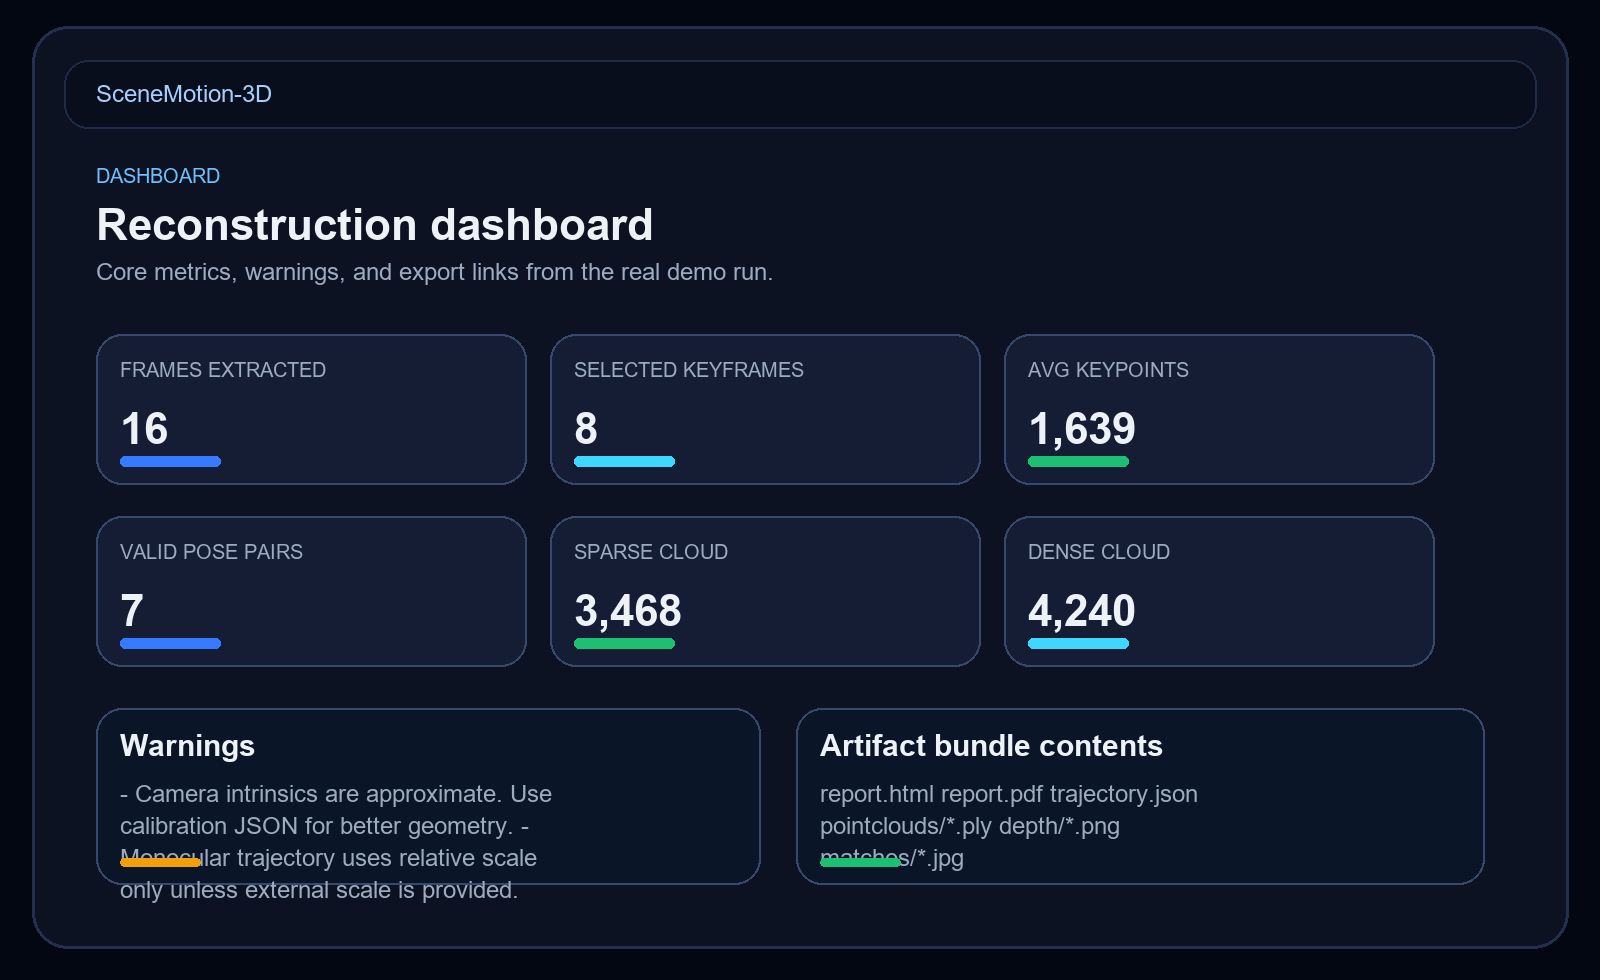
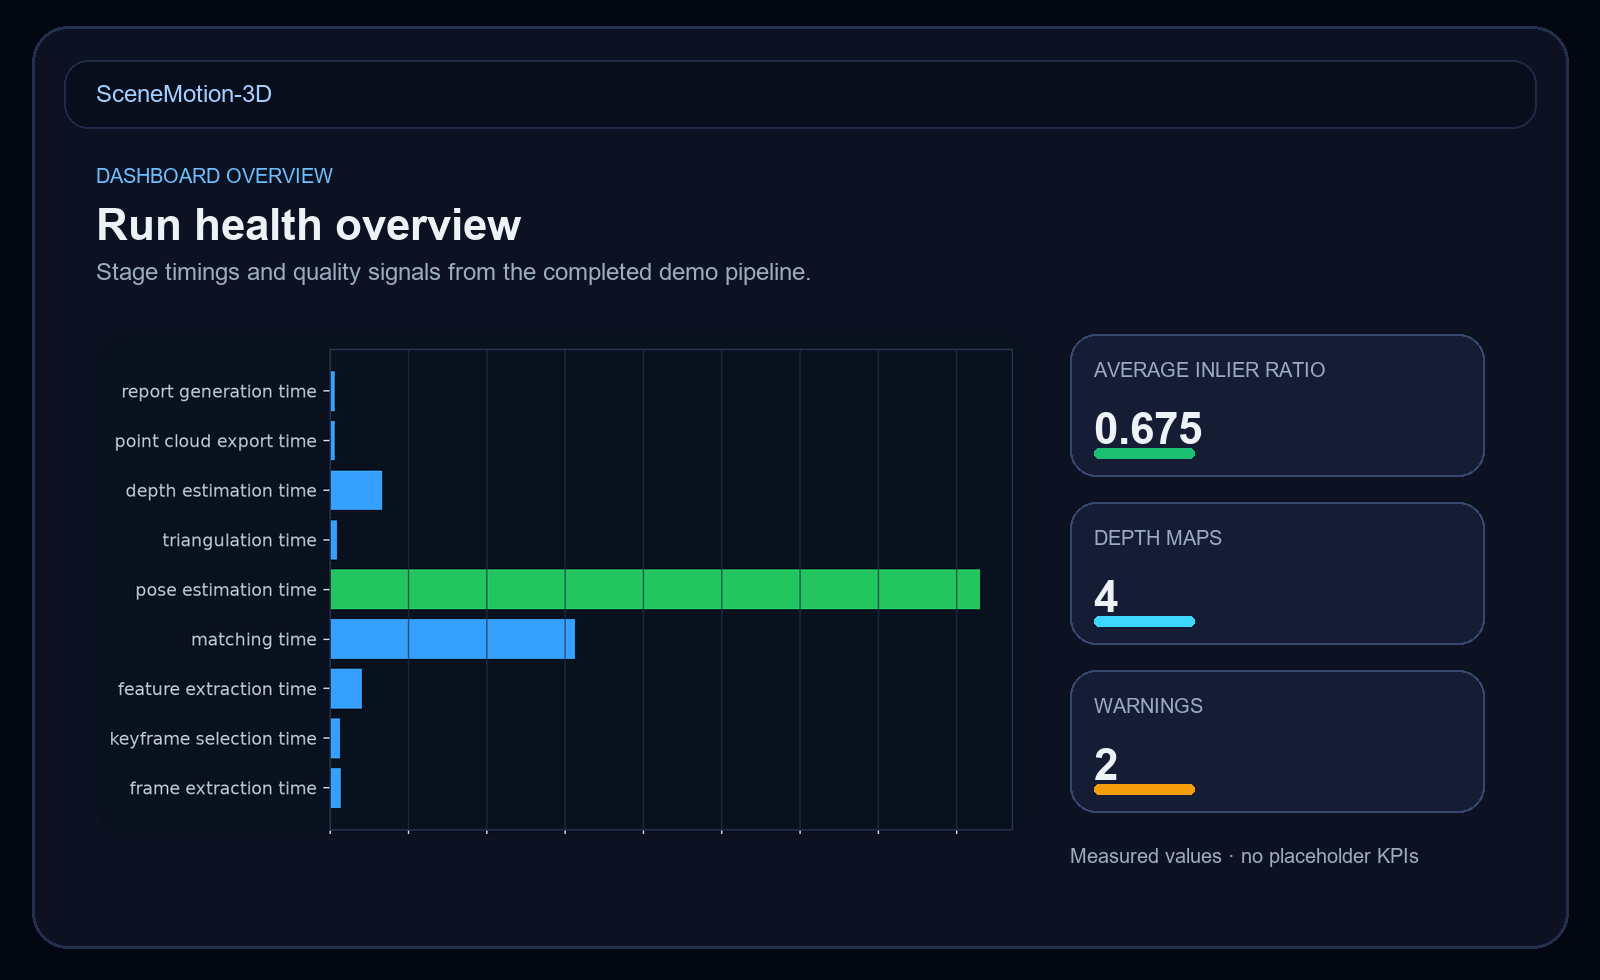
Render independent reconstruction evidence views

diff --git a/scripts/generate_screenshots.py b/scripts/generate_screenshots.py
@@ -349,6 +349,51 @@ def save_pointcloud():
     img.save(OUT / "pointcloud_viewer.png")
 
 
+def save_trajectory():
+    """Render a trajectory-focused view from the exported trajectory JSON."""
+    img, draw = canvas(
+        "Recovered camera trajectory",
+        "Relative camera poses plotted directly from the shipped trajectory artifact.",
+        "Trajectory Viewer",
+    )
+    plot = ImageOps.fit(render_trajectory_plot(), (930, 620), method=Image.Resampling.LANCZOS)
+    paste_rounded(img, plot, (96, 334), radius=30)
+    stat_card(draw, (1070, 334, 1484, 500), "Valid pose pairs", format_number(METRICS["valid_pose_pairs"]), accent=BLUE)
+    stat_card(draw, (1070, 526, 1484, 692), "Relative path length", format_number(TRAJECTORY["trajectory_length_relative"]), accent=CYAN)
+    text_card(draw, (1070, 718, 1484, 884), "Scale note", TRAJECTORY["scale_note"], accent=AMBER)
+    img.save(OUT / "trajectory_viewer.png")
+
+
+def save_dashboard_snapshot():
+    """Render a compact run snapshot instead of copying the full dashboard."""
+    img, draw = canvas(
+        "Completed run snapshot",
+        "A compact evidence card assembled from the same measured demo output bundle.",
+        "Run Snapshot",
+    )
+    rounded_box(draw, (96, 334, 1484, 884), fill=CARD)
+    draw.text((128, 370), "demo_job_synthetic", fill=TEXT, font=FONT_MD)
+    draw.text((128, 418), "Shipped output bundle · synthetic input · relative monocular scale", fill=MUTED, font=FONT_SM)
+    snapshot = [
+        ("Frames", format_number(METRICS["extracted_frames"]), BLUE),
+        ("Keyframes", format_number(METRICS["selected_keyframes"]), CYAN),
+        ("Pose pairs", format_number(METRICS["valid_pose_pairs"]), GREEN),
+        ("Sparse points", format_number(METRICS["sparse_3d_point_count"]), GREEN),
+        ("Dense points", format_number(METRICS["dense_cloud_point_count"]), CYAN),
+        ("Loop candidates", format_number(METRICS["loop_candidates_verified"]), AMBER),
+    ]
+    x = 128
+    y = 500
+    for index, (label, value, accent) in enumerate(snapshot):
+        stat_card(draw, (x, y, x + 392, y + 142), label, value, accent=accent)
+        x += 424
+        if (index + 1) % 3 == 0:
+            x = 128
+            y += 170
+    draw.text((128, 824), "Source: outputs/demo_job_synthetic/metrics.json + trajectory.json", fill=MUTED, font=FONT_XS)
+    img.save(OUT / "dashboard_snapshot.png")
+
+
 def save_benchmark():
     img, draw = canvas(
         "Benchmark-style report view",
@@ -446,14 +491,20 @@ def save_artifact_bundle():
     img.save(OUT / "artifact_bundle.png")
 
 
-def write_aliases():
-    aliases = {
-        "dashboard.png": "reconstruction_dashboard.png",
-        "trajectory_viewer.png": "pointcloud_viewer.png",
-        "dashboard_snapshot.png": "reconstruction_dashboard.png",
-    }
-    for alias, target in aliases.items():
-        (OUT / alias).write_bytes((OUT / target).read_bytes())
+def save_legacy_dashboard():
+    """Keep the legacy dashboard filename as an independent timing view."""
+    img, draw = canvas(
+        "Run health overview",
+        "Stage timings and quality signals from the completed demo pipeline.",
+        "Dashboard Overview",
+    )
+    timing = ImageOps.fit(render_timing_plot(), (930, 500), method=Image.Resampling.LANCZOS)
+    paste_rounded(img, timing, (96, 334), radius=30)
+    stat_card(draw, (1070, 334, 1484, 476), "Average inlier ratio", f"{METRICS['average_inlier_ratio']:.3f}", accent=GREEN)
+    stat_card(draw, (1070, 502, 1484, 644), "Depth maps", format_number(METRICS["depth_maps_generated"]), accent=CYAN)
+    stat_card(draw, (1070, 670, 1484, 812), "Warnings", format_number(len(METRICS["warnings"])), accent=AMBER)
+    draw.text((1070, 844), "Measured values · no placeholder KPIs", fill=MUTED, font=FONT_XS)
+    img.save(OUT / "dashboard.png")
 
 
 def main():
@@ -464,11 +515,13 @@ def main():
     save_matches()
     save_depth()
     save_pointcloud()
+    save_trajectory()
+    save_dashboard_snapshot()
     save_benchmark()
     save_run_comparison()
     save_pdf_preview()
     save_artifact_bundle()
-    write_aliases()
+    save_legacy_dashboard()
     print(f"Generated real-data screenshot assets in {OUT}")
 
 
